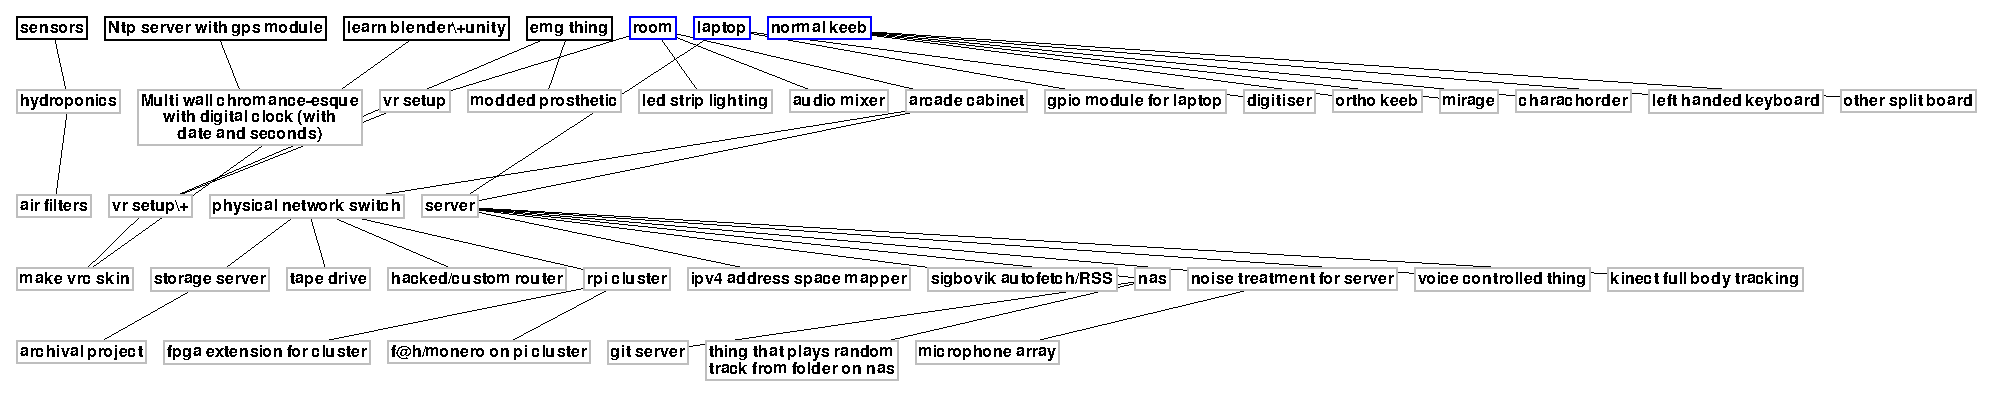
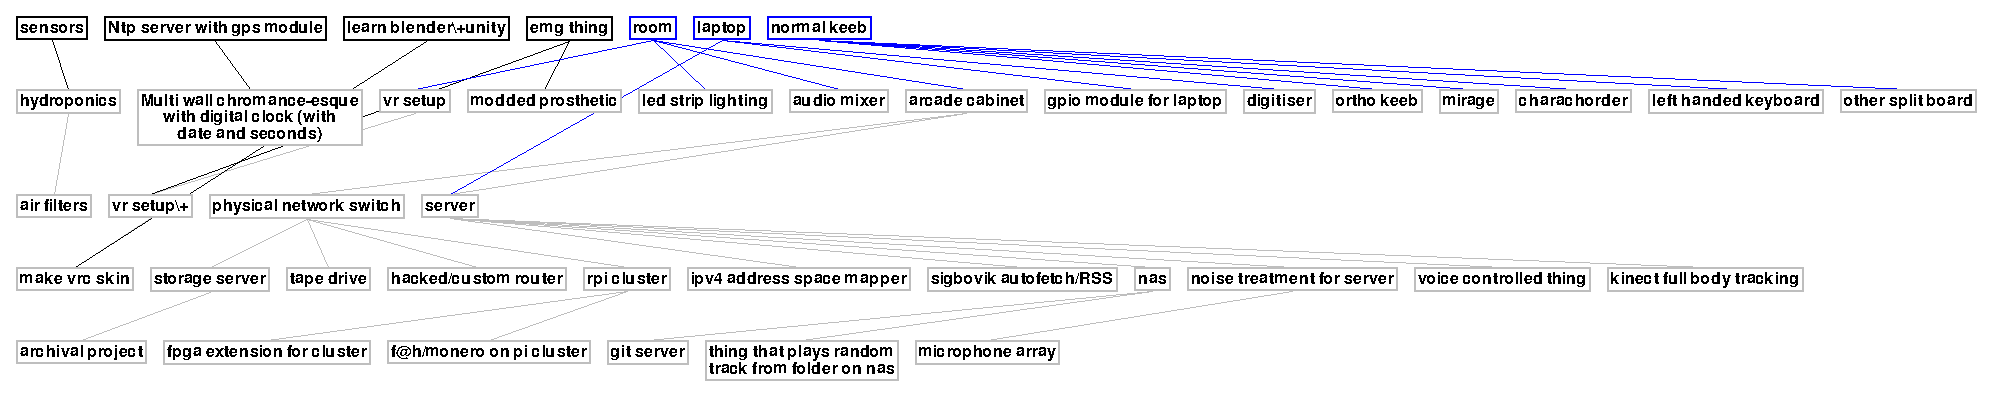
Nodes are now responsible for drawing their own connections

diff --git a/core/Node.py b/core/Node.py
@@ -63,6 +63,13 @@ class Node:
         pos_y = self.position_y - height / 2
         surface.blit(self.text_surf, (pos_x, pos_y))
 
+    def draw_connections(self, surface: pygame.Surface, line_thickness: int) -> None:
+        """Draws all connections between this node and its dependencies"""
+        point1 = (self.position_x, self.position_y + self.height / 2)
+        for node in self.dependants:
+            point2 = (node.position_x, node.position_y - node.height / 2)
+            pygame.draw.line(surface, self.colour, point1, point2, line_thickness)
+
     def is_dependency_satisfied(self) -> bool:
         """Check if all dependencies for this node have been completed"""
         return all((dep.status == 'completed') for dep in self.dependencies)

diff --git a/core/Renderer.py b/core/Renderer.py
@@ -25,14 +25,8 @@ class Renderer:
         which can be blitted to the window surface once per frame."""
 
         # Draw connections
-        for node1 in graph.nodes:
-            point1 = (node1.position_x, node1.position_y)
-            for node2 in node1.dependants:
-                point2 = (node2.position_x, node2.position_y)
-
-                # TODO: Clean up connection drawing code
-                line_colour = (0, 0, 0)
-                pygame.draw.line(self.surface, line_colour, point1, point2, self.line_thickness)
+        for node in graph.nodes:
+            node.draw_connections(self.surface, self.line_thickness)
 
         # Draw nodes
         for node in graph.nodes:
